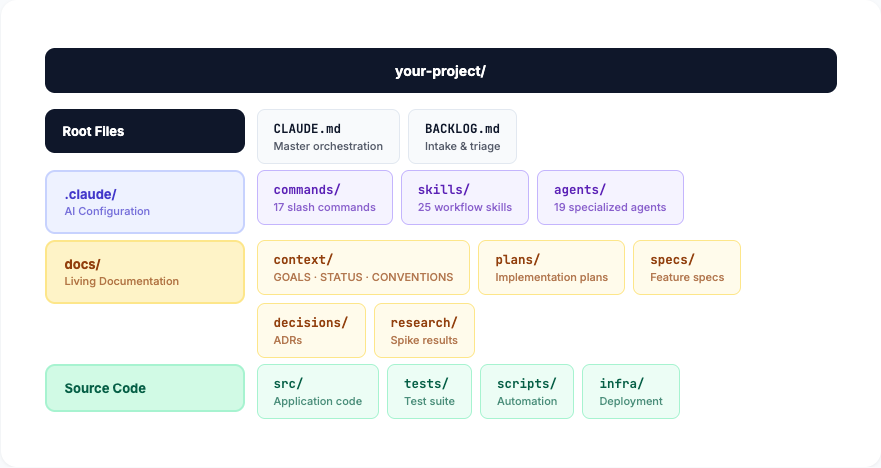
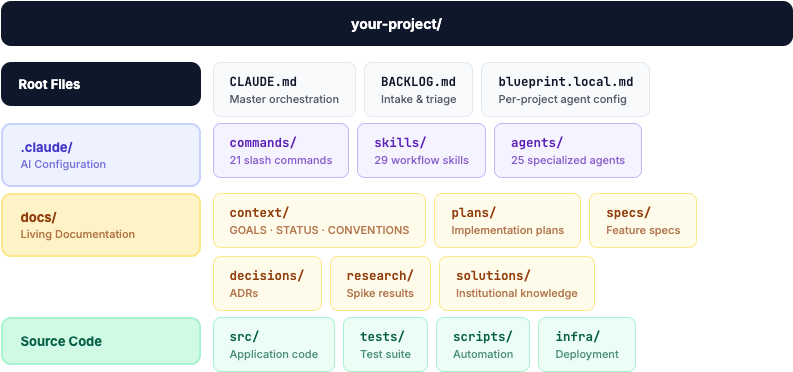
docs: update diagrams and install.sh for v2.0.0
- Hero banner: 29 Skills, 21 Commands, 25 Agents
- Agents ecosystem: redesigned from flat categories to swarm/wave team layout
- Skills map: added 4 new skills (wave/swarm orchestration, knowledge compounding, session continuity)
- Project structure: added blueprint.local.md, docs/solutions/, updated counts
- Re-rendered all 6 PNGs via Playwright
- install.sh: bump to v2.0.0, add blueprint.local.md, filter render-diagrams.html

diff --git a/docs/images/render-diagrams.html b/docs/images/render-diagrams.html
@@ -247,7 +247,7 @@
 
   .ae-hub {
     text-align: center;
-    margin-bottom: 28px;
+    margin-bottom: 24px;
   }
 
   .ae-hub-label {
@@ -277,7 +277,7 @@
 
   .ae-dispatch {
     text-align: center;
-    margin-bottom: 20px;
+    margin-bottom: 18px;
     color: #94a3b8;
     font-size: 12px;
     font-weight: 500;
@@ -296,31 +296,74 @@
     margin: 0 12px;
   }
 
-  .ae-categories {
-    display: grid;
-    grid-template-columns: repeat(4, 1fr);
-    gap: 12px;
+  /* Team-based layout */
+  .ae-team {
+    border-radius: 12px;
+    padding: 16px;
+    margin-bottom: 12px;
+    border: 1.5px solid;
   }
 
-  .ae-cat {
-    border-radius: 10px;
-    padding: 14px;
-    border: 1px solid;
+  .ae-team:last-child { margin-bottom: 0; }
+
+  .ae-team-header {
+    display: flex;
+    align-items: center;
+    gap: 10px;
+    margin-bottom: 12px;
   }
 
-  .ae-cat-name {
-    font-size: 11px;
+  .ae-team-name {
+    font-size: 13px;
     font-weight: 700;
+    letter-spacing: -0.2px;
+  }
+
+  .ae-team-badge {
+    font-size: 9px;
+    font-weight: 700;
+    letter-spacing: 1px;
     text-transform: uppercase;
-    letter-spacing: 0.5px;
-    margin-bottom: 8px;
+    padding: 3px 10px;
+    border-radius: 20px;
+    color: #fff;
+  }
+
+  .ae-team-agents {
+    display: flex;
+    flex-wrap: wrap;
+    gap: 8px;
+    align-items: center;
+  }
+
+  .ae-output {
+    display: flex;
+    align-items: center;
+    gap: 8px;
+    margin-top: 6px;
+    padding-top: 8px;
+    border-top: 1px dashed;
+    border-color: inherit;
+    width: 100%;
+  }
+
+  .ae-output-label {
+    font-size: 10px;
+    font-weight: 600;
+    letter-spacing: 1px;
+    text-transform: uppercase;
+    color: #94a3b8;
+    flex-shrink: 0;
   }
 
   .ae-agent {
     font-size: 12px;
     font-weight: 500;
-    padding: 4px 0;
+    padding: 6px 12px;
+    border-radius: 6px;
+    border: 1px solid;
     line-height: 1.3;
+    white-space: nowrap;
   }
 
   .ae-agent-sub {
@@ -329,34 +372,57 @@
     opacity: 0.65;
   }
 
-  /* Agent category colors */
-  .ae-code-quality { background: #ecfdf5; border-color: #a7f3d0; }
-  .ae-code-quality .ae-cat-name { color: #059669; }
-  .ae-code-quality .ae-agent { color: #065f46; }
+  .ae-arrow {
+    font-size: 16px;
+    color: #94a3b8;
+    padding: 0 2px;
+    flex-shrink: 0;
+  }
 
-  .ae-architecture { background: #eff6ff; border-color: #bfdbfe; }
-  .ae-architecture .ae-cat-name { color: #2563eb; }
-  .ae-architecture .ae-agent { color: #1e40af; }
+  .ae-synthesizer {
+    font-size: 12px;
+    font-weight: 700;
+    padding: 6px 14px;
+    border-radius: 6px;
+    border: 2px solid;
+    white-space: nowrap;
+  }
 
-  .ae-security { background: #fff1f2; border-color: #fecdd3; }
-  .ae-security .ae-cat-name { color: #e11d48; }
-  .ae-security .ae-agent { color: #9f1239; }
+  /* Two-column row for smaller teams */
+  .ae-teams-row {
+    display: grid;
+    grid-template-columns: 1fr 1fr;
+    gap: 12px;
+    margin-bottom: 12px;
+  }
 
-  .ae-research { background: #f5f3ff; border-color: #c4b5fd; }
-  .ae-research .ae-cat-name { color: #7c3aed; }
-  .ae-research .ae-agent { color: #5b21b6; }
+  .ae-teams-row .ae-team { margin-bottom: 0; }
 
-  .ae-testing { background: #f0fdfa; border-color: #99f6e4; }
-  .ae-testing .ae-cat-name { color: #0d9488; }
-  .ae-testing .ae-agent { color: #115e59; }
+  /* Research Swarm — purple */
+  .ae-research-swarm { background: #faf5ff; border-color: #d8b4fe; }
+  .ae-research-swarm .ae-team-name { color: #7c3aed; }
+  .ae-research-swarm .ae-team-badge { background: linear-gradient(135deg, #8b5cf6, #7c3aed); }
+  .ae-research-swarm .ae-agent { background: #f5f3ff; border-color: #c4b5fd; color: #5b21b6; }
+  .ae-research-swarm .ae-synthesizer { background: #ede9fe; border-color: #8b5cf6; color: #5b21b6; }
 
-  .ae-performance { background: #fffbeb; border-color: #fde68a; }
-  .ae-performance .ae-cat-name { color: #d97706; }
-  .ae-performance .ae-agent { color: #92400e; }
+  /* Review Swarm — green */
+  .ae-review-swarm { background: #f0fdf4; border-color: #86efac; }
+  .ae-review-swarm .ae-team-name { color: #059669; }
+  .ae-review-swarm .ae-team-badge { background: linear-gradient(135deg, #10b981, #059669); }
+  .ae-review-swarm .ae-agent { background: #ecfdf5; border-color: #a7f3d0; color: #065f46; }
+  .ae-review-swarm .ae-synthesizer { background: #d1fae5; border-color: #059669; color: #065f46; }
 
-  .ae-operations { background: #f0f9ff; border-color: #bae6fd; }
-  .ae-operations .ae-cat-name { color: #0284c7; }
-  .ae-operations .ae-agent { color: #075985; }
+  /* Planning — blue */
+  .ae-planning { background: #eff6ff; border-color: #93c5fd; }
+  .ae-planning .ae-team-name { color: #2563eb; }
+  .ae-planning .ae-team-badge { background: linear-gradient(135deg, #3b82f6, #2563eb); }
+  .ae-planning .ae-agent { background: #f0f7ff; border-color: #bfdbfe; color: #1e40af; }
+
+  /* Operations — slate/cyan */
+  .ae-standalone { background: #f0f9ff; border-color: #a5f3fc; }
+  .ae-standalone .ae-team-name { color: #0284c7; }
+  .ae-standalone .ae-team-badge { background: linear-gradient(135deg, #06b6d4, #0284c7); }
+  .ae-standalone .ae-agent { background: #f0f9ff; border-color: #bae6fd; color: #075985; }
 
   /* ── PROJECT STRUCTURE ─────────────────────────────── */
   #project-structure { }
@@ -701,13 +767,15 @@
   </div>
   <!-- Execution Phase -->
   <div class="sm-phase sm-execution">
-    <div class="sm-header">Execution <span class="sm-count">5</span></div>
+    <div class="sm-header">Execution <span class="sm-count">7</span></div>
     <div class="sm-skills">
       <div class="sm-skill">Executing Plans</div>
       <div class="sm-skill">Test-Driven Development</div>
       <div class="sm-skill">Subagent-Driven Dev</div>
       <div class="sm-skill">Parallel Agents</div>
       <div class="sm-skill">Git Worktrees</div>
+      <div class="sm-skill">Wave Orchestration</div>
+      <div class="sm-skill">Swarm Orchestration</div>
     </div>
   </div>
   <!-- Quality Phase -->
@@ -722,10 +790,12 @@
   </div>
   <!-- Completion Phase -->
   <div class="sm-phase sm-completion">
-    <div class="sm-header">Completion <span class="sm-count">2</span></div>
+    <div class="sm-header">Completion <span class="sm-count">4</span></div>
     <div class="sm-skills">
       <div class="sm-skill">Finishing Branch</div>
       <div class="sm-skill">Session Wrap</div>
+      <div class="sm-skill">Knowledge Compounding</div>
+      <div class="sm-skill">Session Continuity</div>
     </div>
   </div>
   <!-- Operations Phase -->
@@ -762,54 +832,77 @@
       Claude Code Main Session
     </div>
   </div>
-  <div class="ae-dispatch">dispatches 19 specialized agents</div>
-  <div class="ae-categories">
-    <!-- Code Quality -->
-    <div class="ae-cat ae-code-quality">
-      <div class="ae-cat-name">Code Quality</div>
-      <div class="ae-agent">Code Reviewer</div>
-      <div class="ae-agent">Simplicity Reviewer</div>
-      <div class="ae-agent">Frontend Reviewer</div>
-      <div class="ae-agent">Convention Enforcer</div>
+  <div class="ae-dispatch">orchestrates 25 agents across 4 teams</div>
+
+  <!-- Research Swarm -->
+  <div class="ae-team ae-research-swarm">
+    <div class="ae-team-header">
+      <div class="ae-team-badge">Swarm</div>
+      <div class="ae-team-name">Research Swarm — /deep-research</div>
     </div>
-    <!-- Architecture -->
-    <div class="ae-cat ae-architecture">
-      <div class="ae-cat-name">Architecture</div>
-      <div class="ae-agent">Architecture Strategist</div>
-      <div class="ae-agent">Plan Checker</div>
-      <div class="ae-agent">Integration Checker</div>
-    </div>
-    <!-- Security -->
-    <div class="ae-cat ae-security">
-      <div class="ae-cat-name">Security</div>
-      <div class="ae-agent">Security Sentinel</div>
-      <div class="ae-agent">Deployment Verifier</div>
-    </div>
-    <!-- Research -->
-    <div class="ae-cat ae-research">
-      <div class="ae-cat-name">Research</div>
+    <div class="ae-team-agents">
       <div class="ae-agent">Best Practices</div>
+      <div class="ae-agent">Framework Docs</div>
       <div class="ae-agent">Learnings Researcher</div>
       <div class="ae-agent">Git History Analyzer</div>
-      <div class="ae-agent">Research Synthesizer</div>
+      <div class="ae-agent">Context Mapper</div>
+      <div class="ae-output">
+        <div class="ae-output-label">output →</div>
+        <div class="ae-synthesizer">Research Synthesizer</div>
+      </div>
     </div>
-    <!-- Testing -->
-    <div class="ae-cat ae-testing">
-      <div class="ae-cat-name">Testing</div>
-      <div class="ae-agent">Bug Reproduction</div>
-      <div class="ae-agent">Test Gap Analyzer</div>
+  </div>
+
+  <!-- Review Swarm -->
+  <div class="ae-team ae-review-swarm">
+    <div class="ae-team-header">
+      <div class="ae-team-badge">Swarm</div>
+      <div class="ae-team-name">Review Swarm — /review-swarm</div>
     </div>
-    <!-- Performance -->
-    <div class="ae-cat ae-performance">
-      <div class="ae-cat-name">Performance</div>
+    <div class="ae-team-agents">
+      <div class="ae-agent">Code Reviewer</div>
+      <div class="ae-agent">Security Sentinel</div>
       <div class="ae-agent">Performance Oracle</div>
+      <div class="ae-agent">Simplicity Reviewer</div>
+      <div class="ae-agent">Convention Enforcer</div>
+      <div class="ae-agent">Test Coverage</div>
+      <div class="ae-agent" style="opacity:0.6">+ Architecture Strategist</div>
+      <div class="ae-agent" style="opacity:0.6">+ Frontend Reviewer</div>
+      <div class="ae-agent" style="opacity:0.6">+ Data Integrity</div>
+      <div class="ae-agent" style="opacity:0.6">+ Schema Drift</div>
+      <div class="ae-output">
+        <div class="ae-output-label">output →</div>
+        <div class="ae-synthesizer">Findings Synthesizer</div>
+      </div>
     </div>
-    <!-- Operations -->
-    <div class="ae-cat ae-operations">
-      <div class="ae-cat-name">Operations</div>
-      <div class="ae-agent">Codebase Mapper</div>
-      <div class="ae-agent">PR Comment Resolver</div>
-      <div class="ae-agent">Schema Drift Detector</div>
+  </div>
+
+  <!-- Planning + Execution row -->
+  <div class="ae-teams-row">
+    <div class="ae-team ae-planning">
+      <div class="ae-team-header">
+        <div class="ae-team-badge">Pipeline</div>
+        <div class="ae-team-name">Planning &amp; Verification</div>
+      </div>
+      <div class="ae-team-agents">
+        <div class="ae-agent">Plan Checker</div>
+        <div class="ae-agent">Integration Checker</div>
+        <div class="ae-agent">Integration Verifier</div>
+        <div class="ae-agent">Deployment Verifier</div>
+      </div>
+    </div>
+
+    <div class="ae-team ae-standalone">
+      <div class="ae-team-header">
+        <div class="ae-team-badge">Standalone</div>
+        <div class="ae-team-name">Operations &amp; Testing</div>
+      </div>
+      <div class="ae-team-agents">
+        <div class="ae-agent">Codebase Mapper</div>
+        <div class="ae-agent">PR Comment Resolver</div>
+        <div class="ae-agent">Bug Reproduction</div>
+        <div class="ae-agent">Test Gap Analyzer</div>
+      </div>
     </div>
   </div>
 </div>
@@ -830,6 +923,10 @@
           <div class="ps-child-name">BACKLOG.md</div>
           <div class="ps-child-desc">Intake &amp; triage</div>
         </div>
+        <div class="ps-child">
+          <div class="ps-child-name">blueprint.local.md</div>
+          <div class="ps-child-desc">Per-project agent config</div>
+        </div>
       </div>
     </div>
 
@@ -838,15 +935,15 @@
       <div class="ps-children">
         <div class="ps-child">
           <div class="ps-child-name">commands/</div>
-          <div class="ps-child-desc">17 slash commands</div>
+          <div class="ps-child-desc">21 slash commands</div>
         </div>
         <div class="ps-child">
           <div class="ps-child-name">skills/</div>
-          <div class="ps-child-desc">25 workflow skills</div>
+          <div class="ps-child-desc">29 workflow skills</div>
         </div>
         <div class="ps-child">
           <div class="ps-child-name">agents/</div>
-          <div class="ps-child-desc">19 specialized agents</div>
+          <div class="ps-child-desc">25 specialized agents</div>
         </div>
       </div>
     </div>
@@ -873,6 +970,10 @@
         <div class="ps-child">
           <div class="ps-child-name">research/</div>
           <div class="ps-child-desc">Spike results</div>
+        </div>
+        <div class="ps-child">
+          <div class="ps-child-name">solutions/</div>
+          <div class="ps-child-desc">Institutional knowledge</div>
         </div>
       </div>
     </div>
